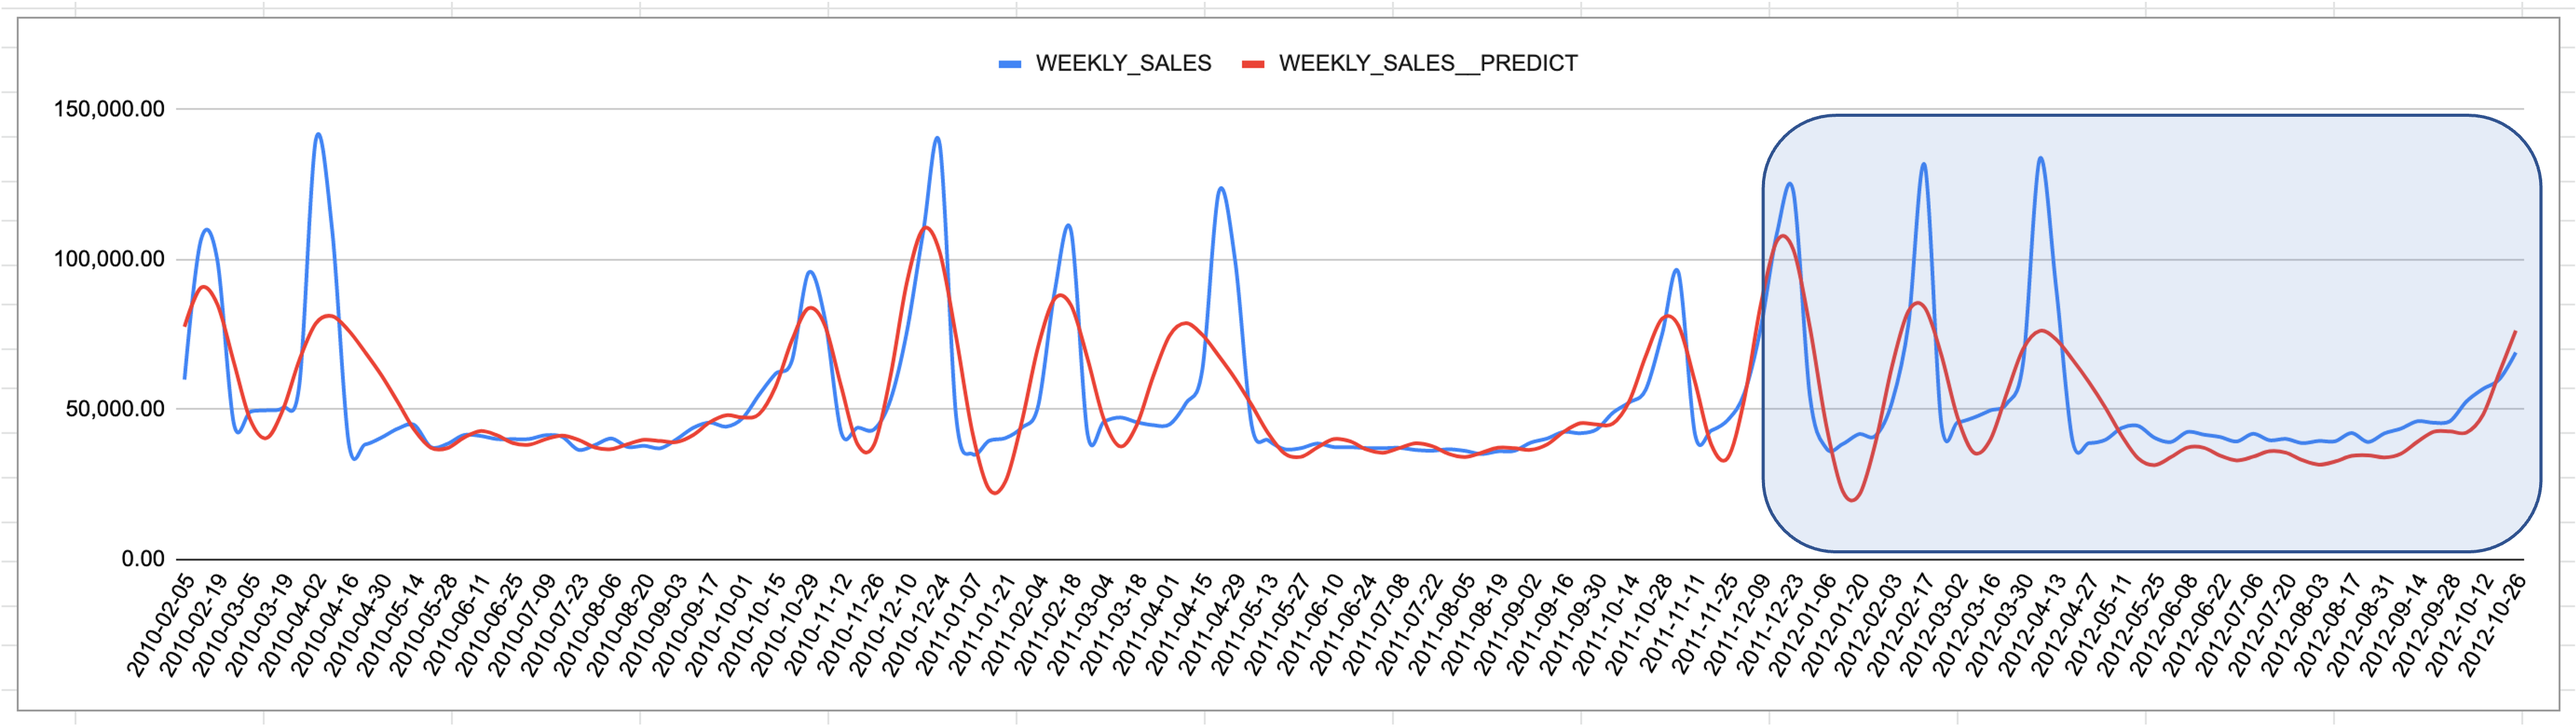
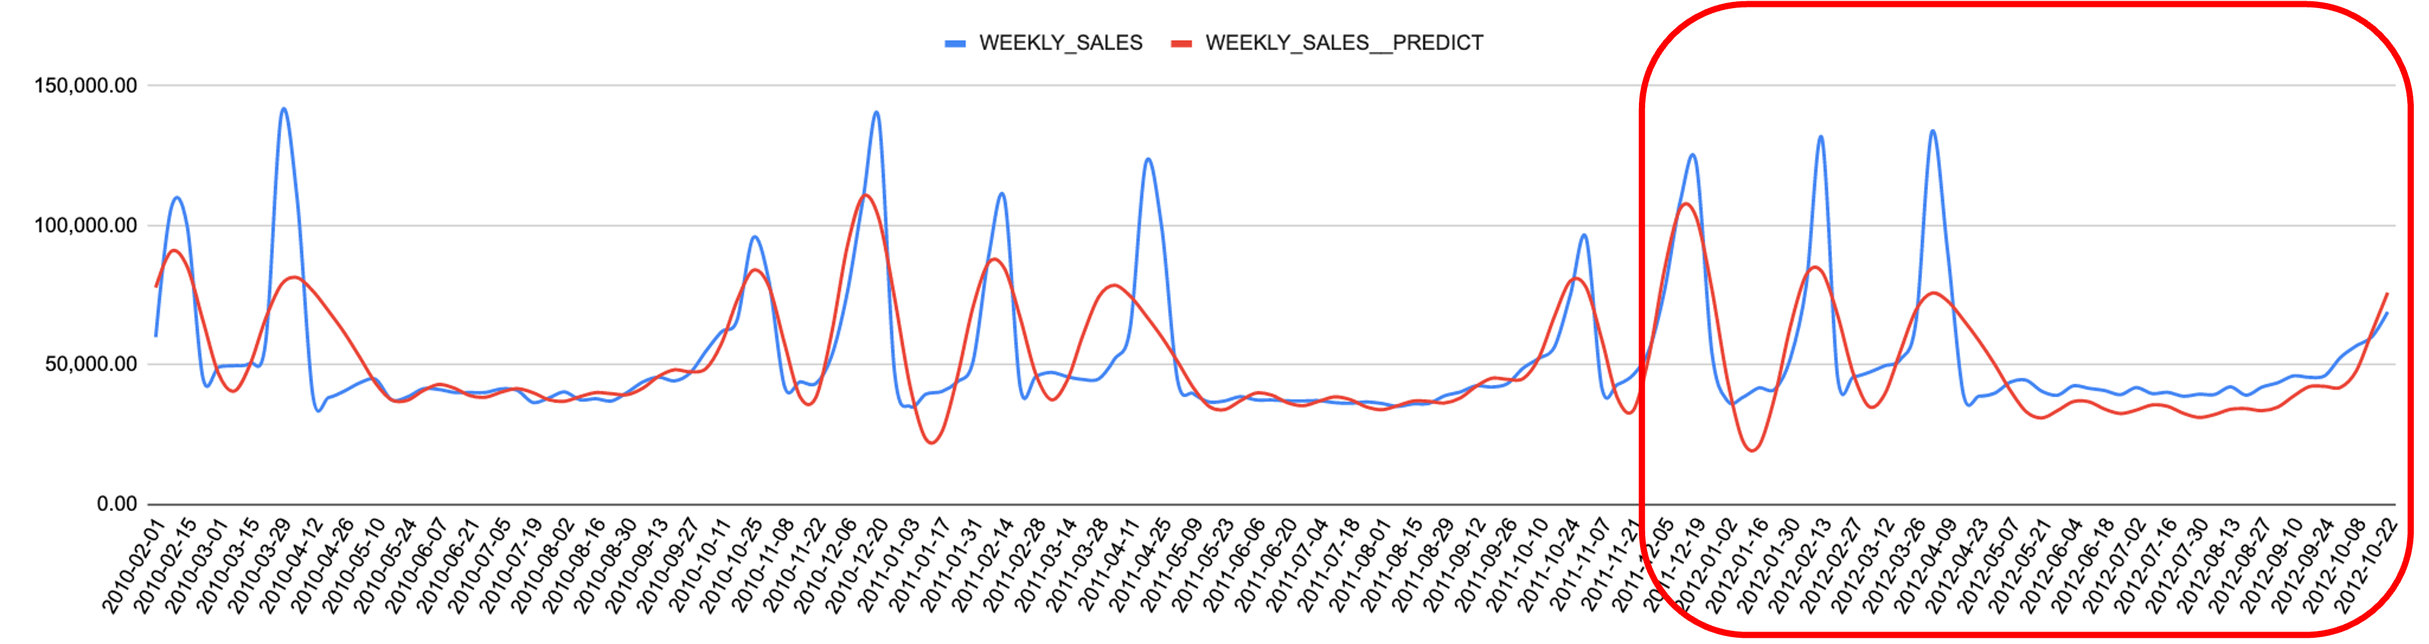
update documentation

diff --git a/python/snow_prophet.py b/python/snow_prophet.py
@@ -102,7 +102,7 @@ class prophet_forecast:
     _max_workers = multiprocessing.cpu_count()
     _tt_split = 0.33
     _CHANGEPOINT_PRIOR_SCALE = [0.5]
-    _CHANGEPOINT_RANGE = [1]
+    _CHANGEPOINT_RANGE = [0.8]
     _SEASONALITY_PRIOR_SCALE = [10]
     _cap_quantile = .75
     _floor_quantile = .25
@@ -155,9 +155,8 @@ class prophet_forecast:
                     return
         except Exception:
             pass
-        train, valid, _, _ = train_test_split(s.train, s.train['y'],
-                                                test_size=s._tt_split, shuffle=False)
-                                                
+        _, valid, _, _ = train_test_split(s.train, s.train['y'],
+                                                test_size=s._tt_split, shuffle=False)      
         params_grid = {'seasonality_mode': ['multiplicative','additive'],
                         'changepoint_prior_scale': s._CHANGEPOINT_PRIOR_SCALE,
                         'growth': ['linear', 'logistic'],
@@ -170,7 +169,7 @@ class prophet_forecast:
     
         grid = ParameterGrid(params_grid)
 
-        tasks = ([(s.prophet_model(p), p, train, valid, f'{idx} / {len(grid)}') 
+        tasks = ([(s.prophet_model(p), p, s.train, valid, f'{idx} / {len(grid)}') 
                     for idx, p in enumerate(grid) if idx < s._trials or s._trials == -1])
 
         with ThreadPoolExecutor(max_workers=s._max_workers) as executor:

diff --git a/readme.md b/readme.md
@@ -1,18 +1,20 @@
 ## Introduction
-dbt-sf-propeht is an experimental project to enable better, more user friendly forecast for Snowflake.
+dbt-forecast is an experimental project to enable better, more user friendly forecast experience for Snowflake.
 
 The forecast solution is defined as a Stored Procedure, run via Snowpark (Snowflake integrated python environment).
 
-This demo support 1 category for the forecast, which enable to forecast multiple product at one run. Thus, this enables user to have more granularity for analysis and improve overall accuracy.
+This demo supports one category for the forecast, that helps to enable forecast multiple product at one run. Ultimately, this feature allows user to access more granularity for analysis and improve overall accuracy.
 
-For some reasons, this package is not compatiple with generate_schema_name from dbt. This should be fixed in later release.
+For some reasons, this package is not compatiple with generate_schema_name from dbt. This should be fixed in later releases.
 
 Main data set we should use to test https://www.kaggle.com/code/aremoto/retail-sales-forecast/data?select=stores+data-set.csv (already included in seed)
 
 ## Evaluation
+### Weekly
 ![Prophet evaluation](img/evaluation_store_1_2.png)
 
-
+### Shaped to Monthly view
+![Prophet evaluation](img/evaluation_store_1_2_m.png)
 ## Usage
 
 1. Clone the repo
